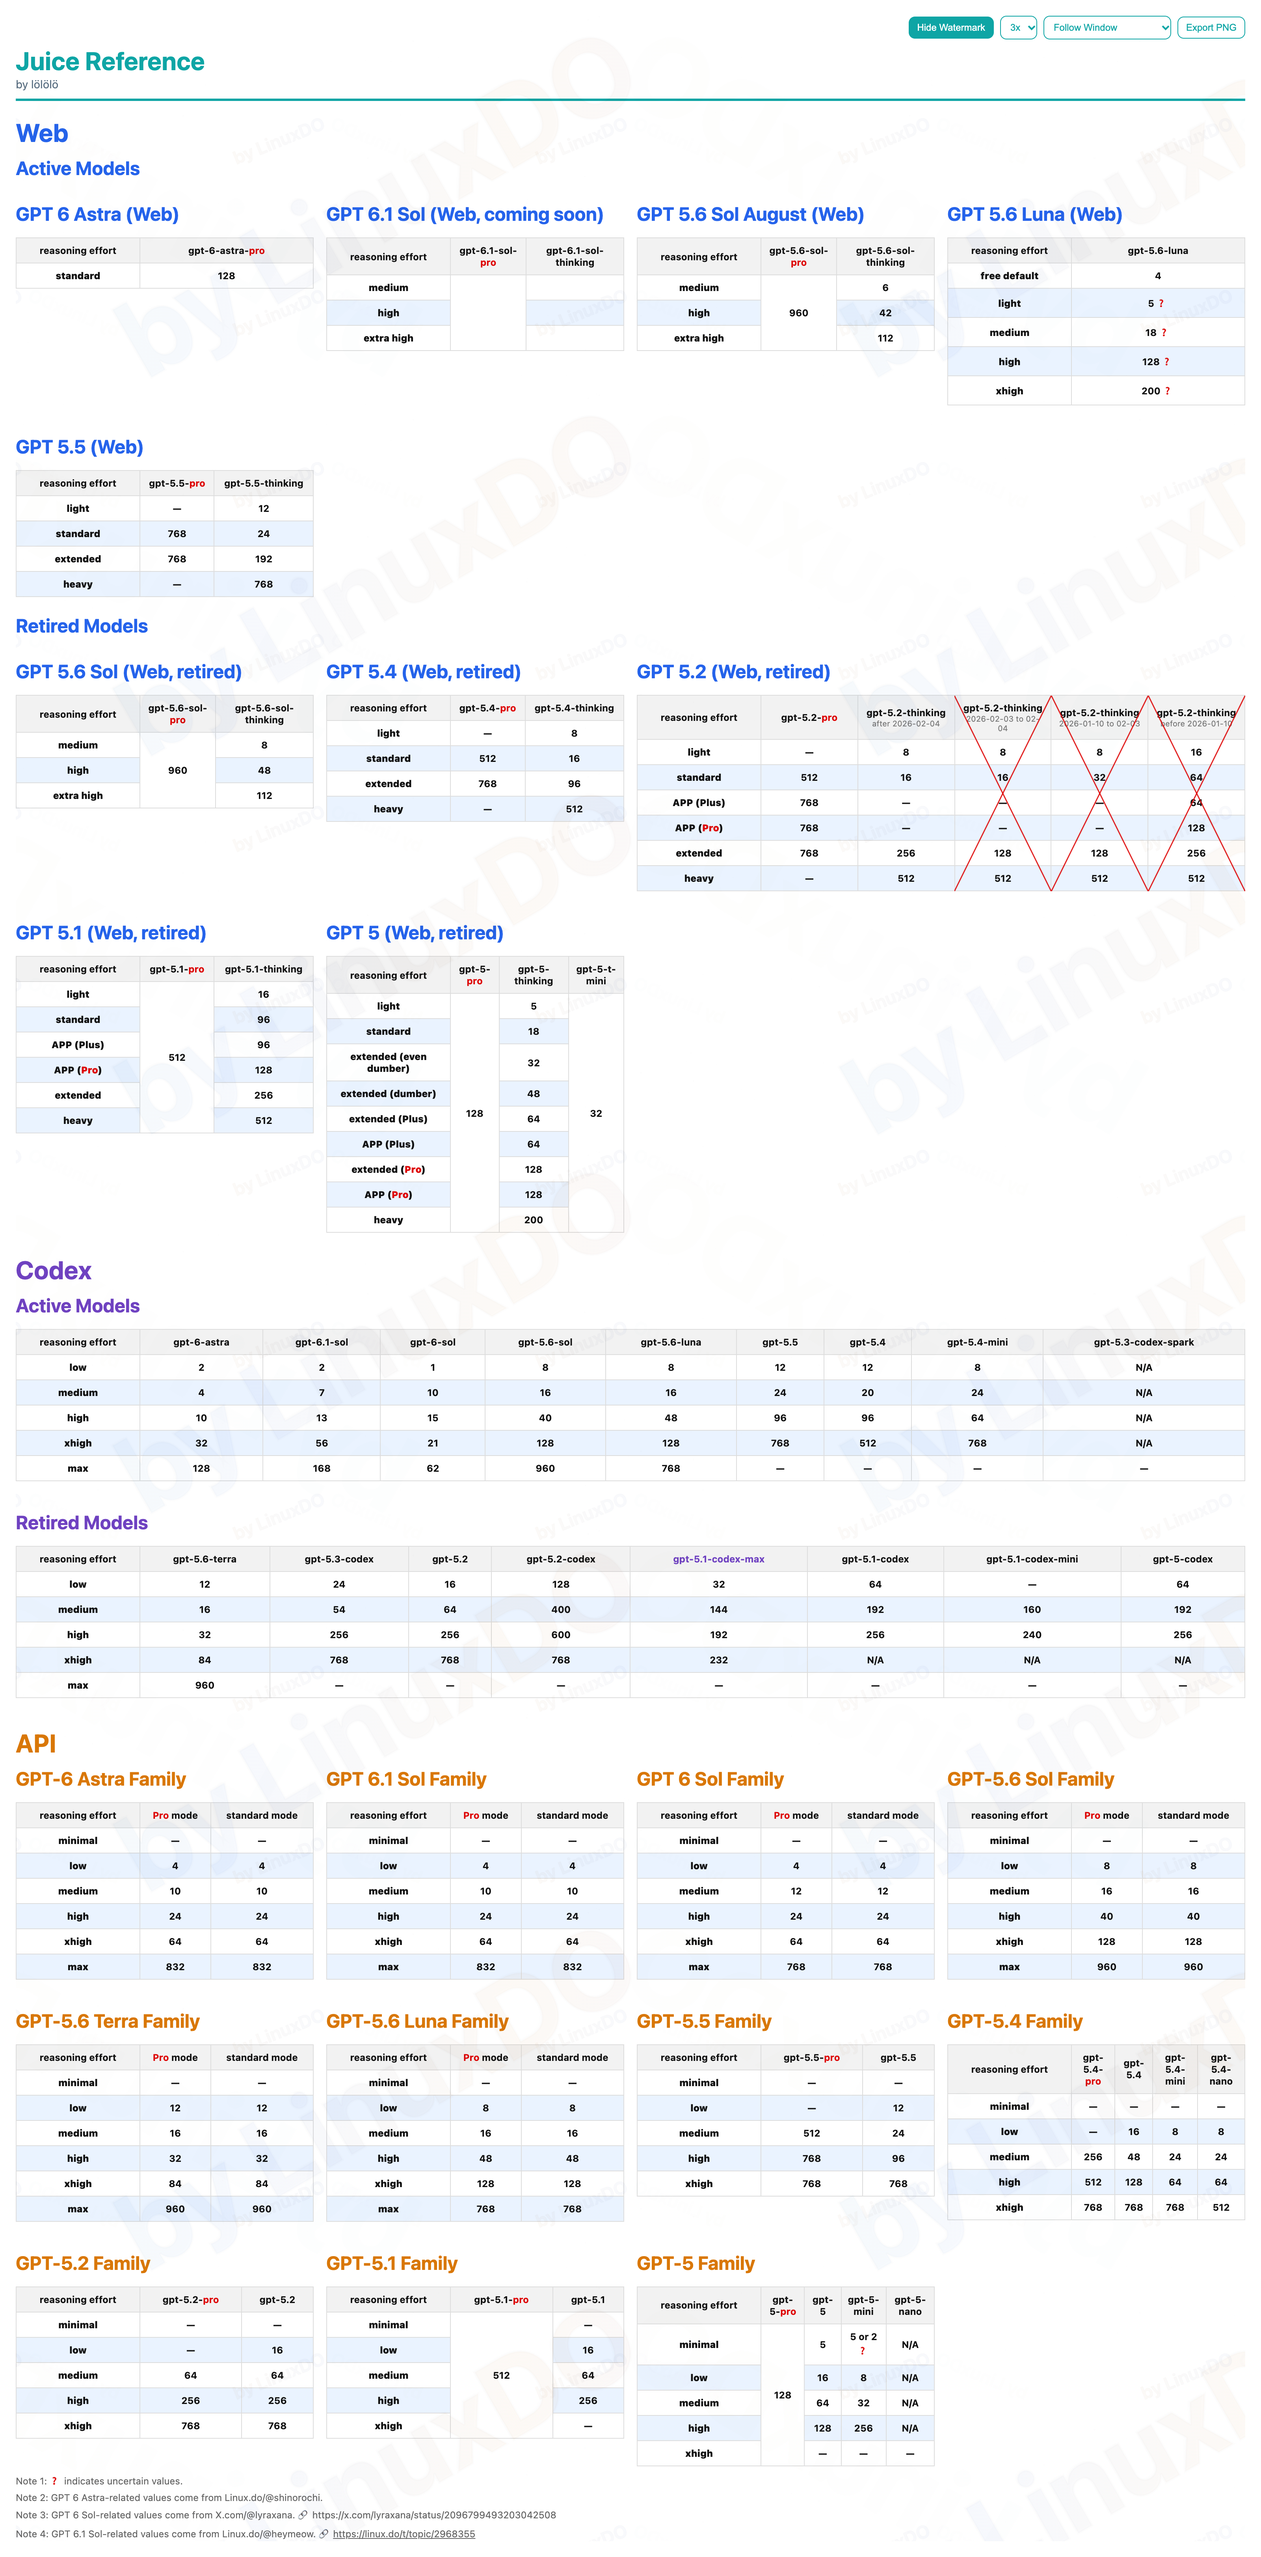
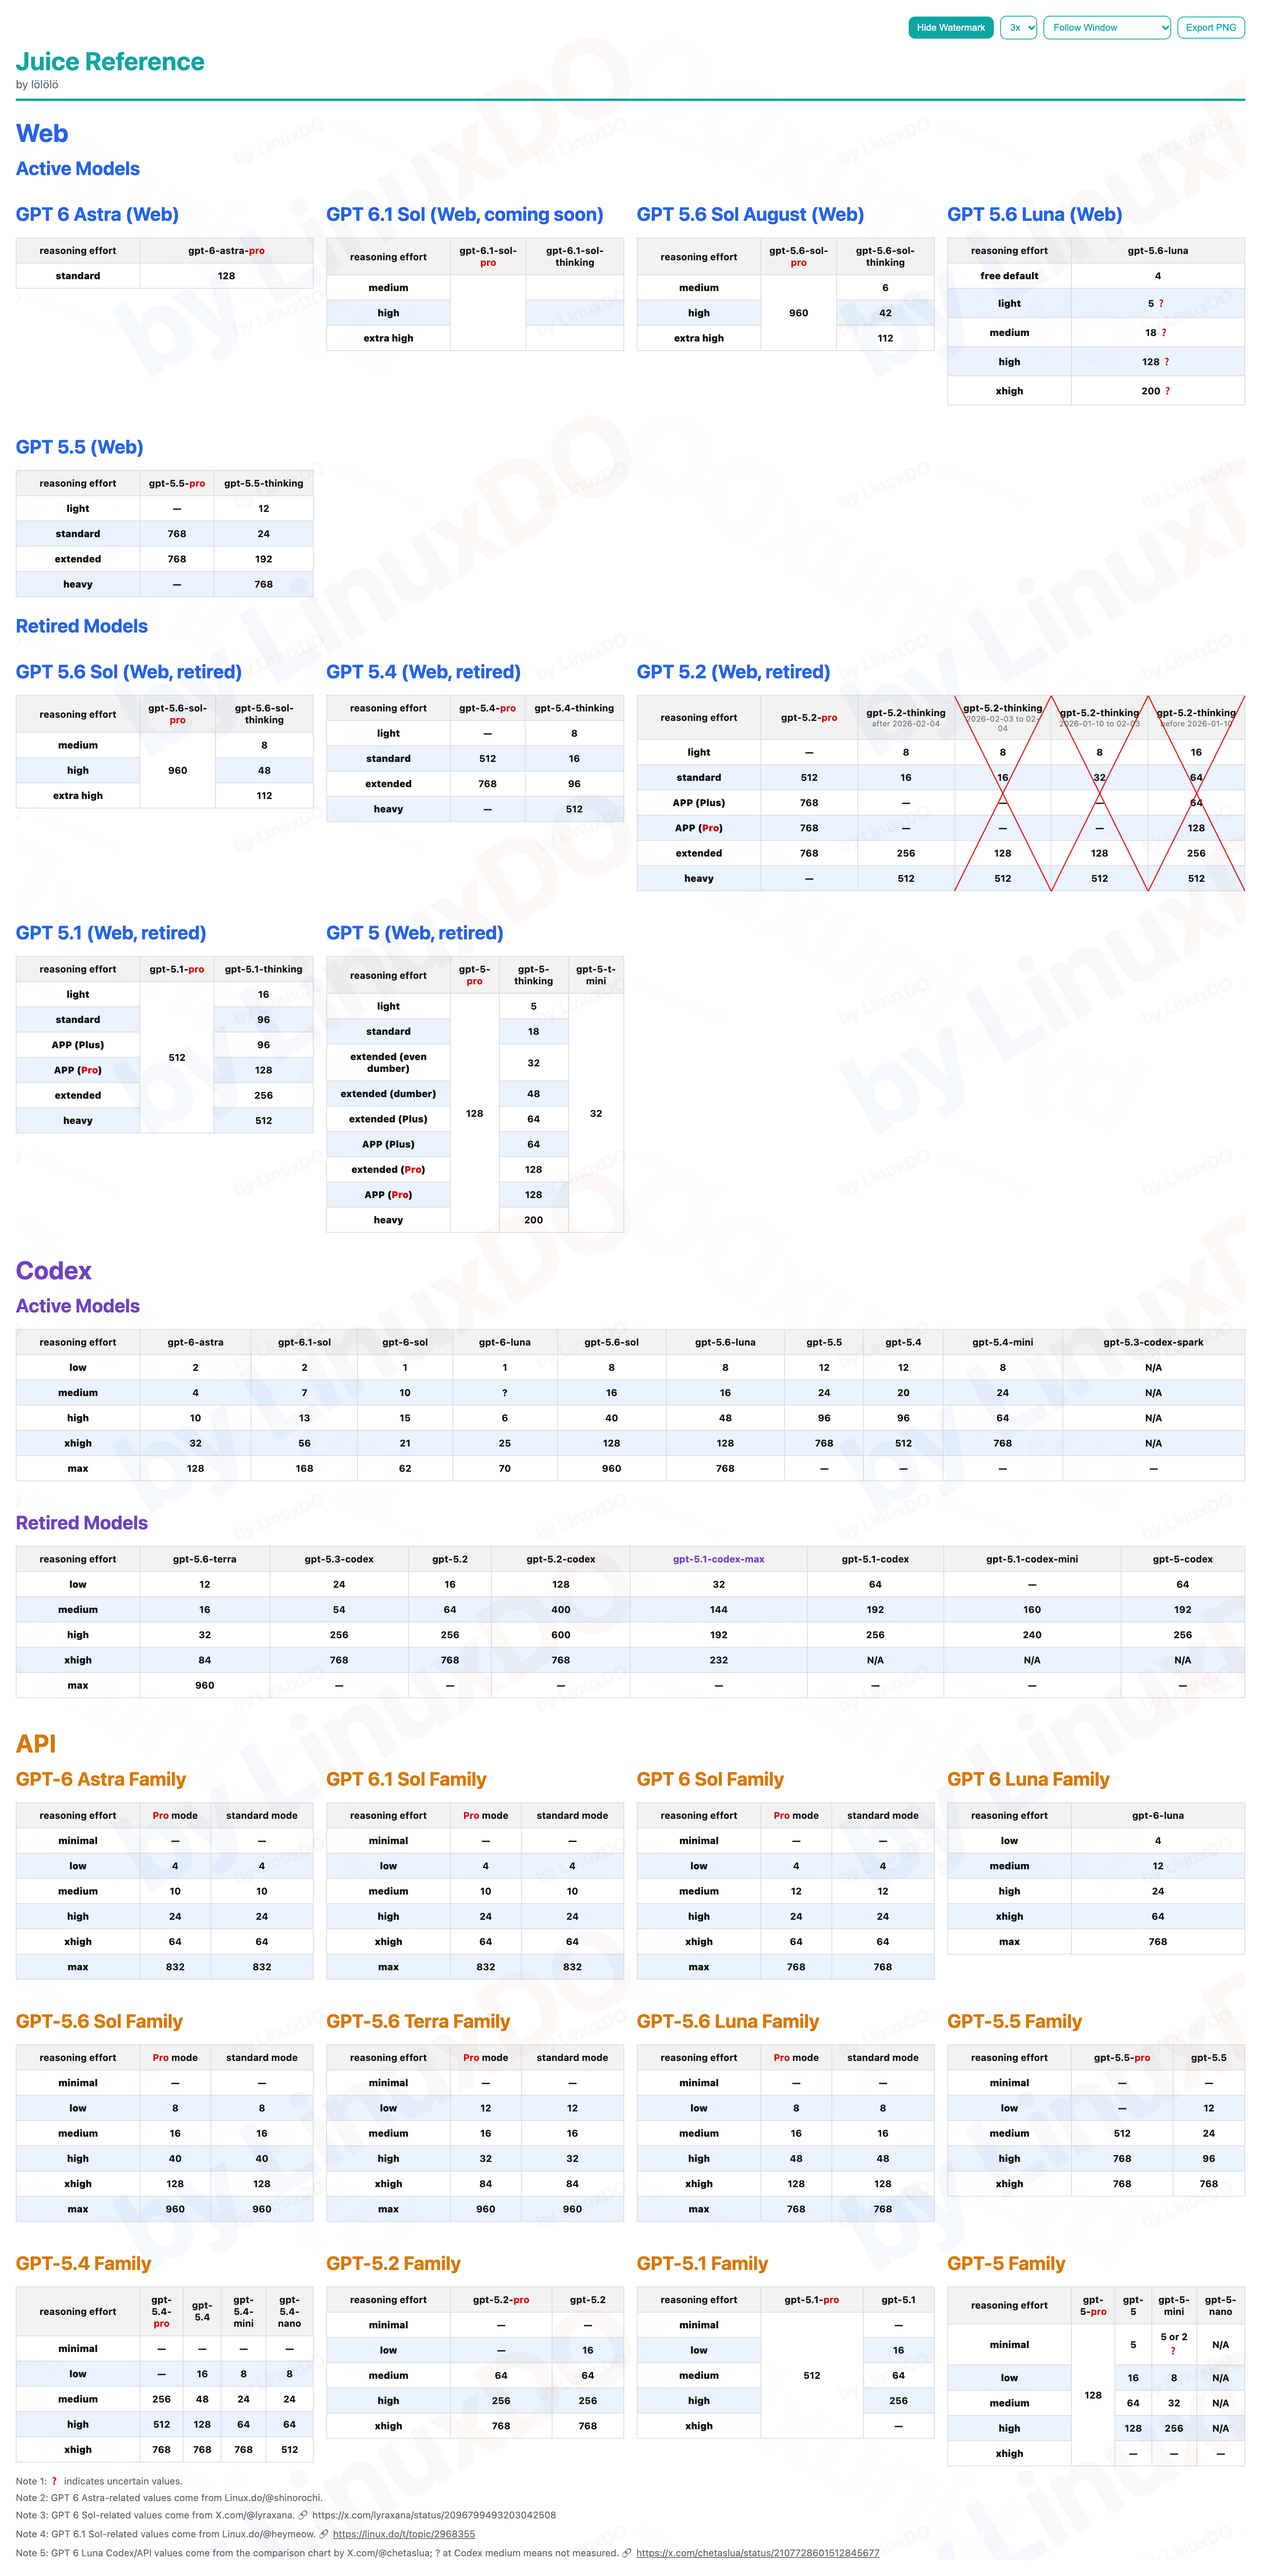
2026.10.07-1: Add bilingual GPT 6 Luna juice values

diff --git a/README.md b/README.md
@@ -6,7 +6,7 @@ Maintenance rules for future GPT editors:
 2) The second line must stay as the Linux.Do website link.
 -->
 
-2026.09.30-2
+2026.10.07-1
 
 [Linux.Do](https://linux.do)
 
